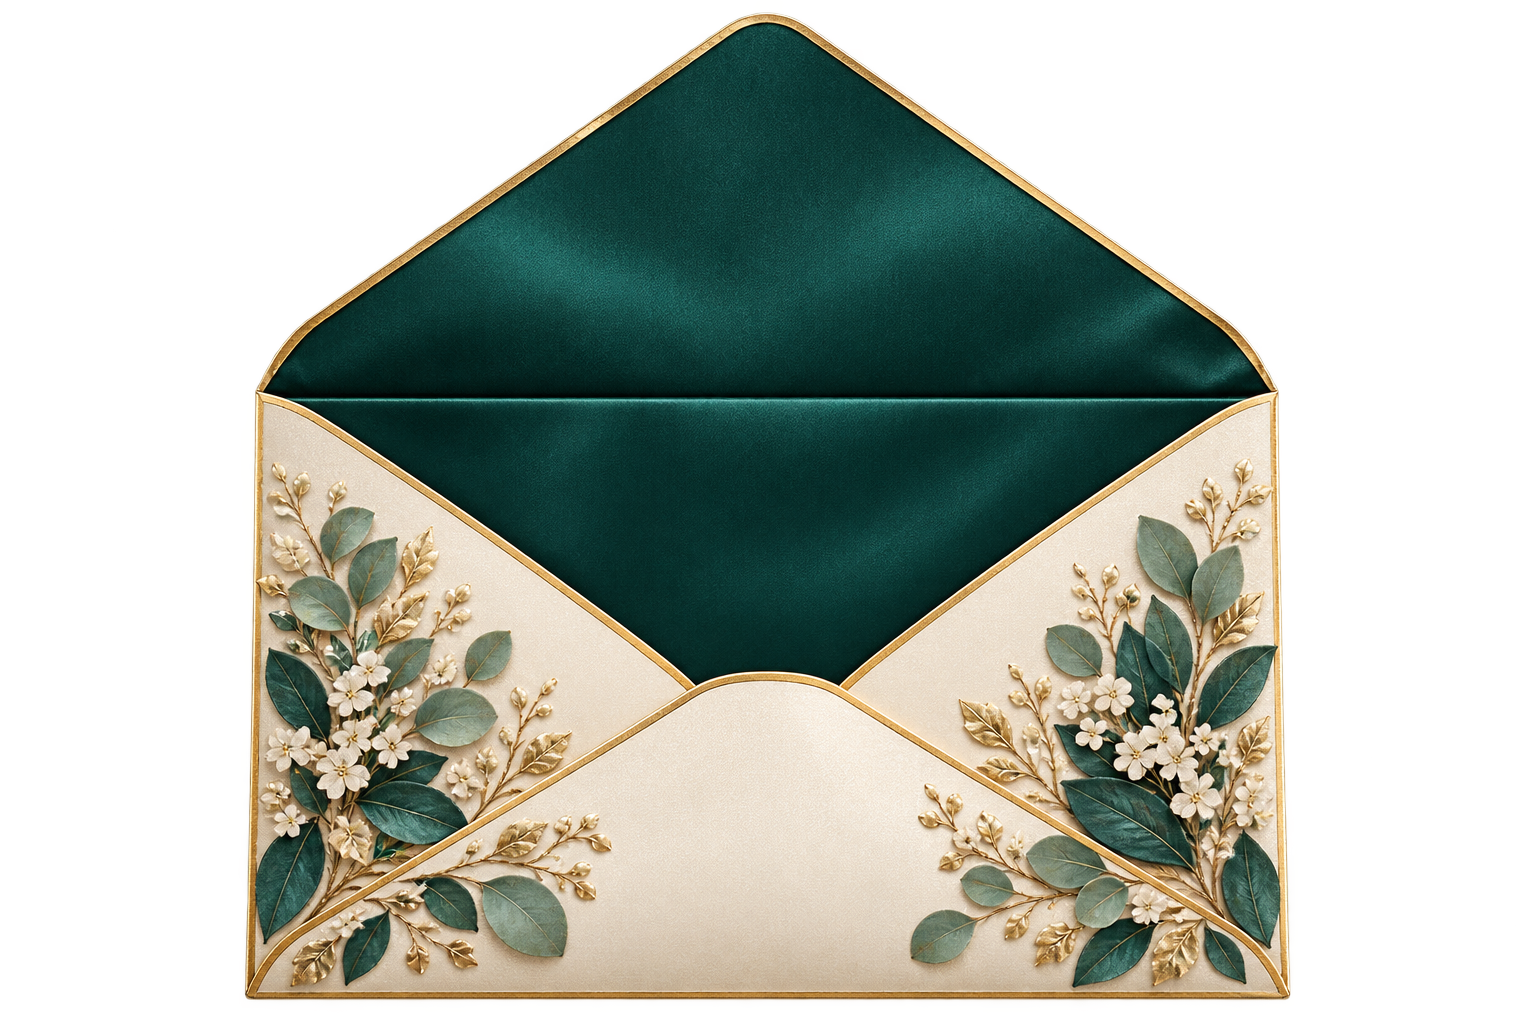
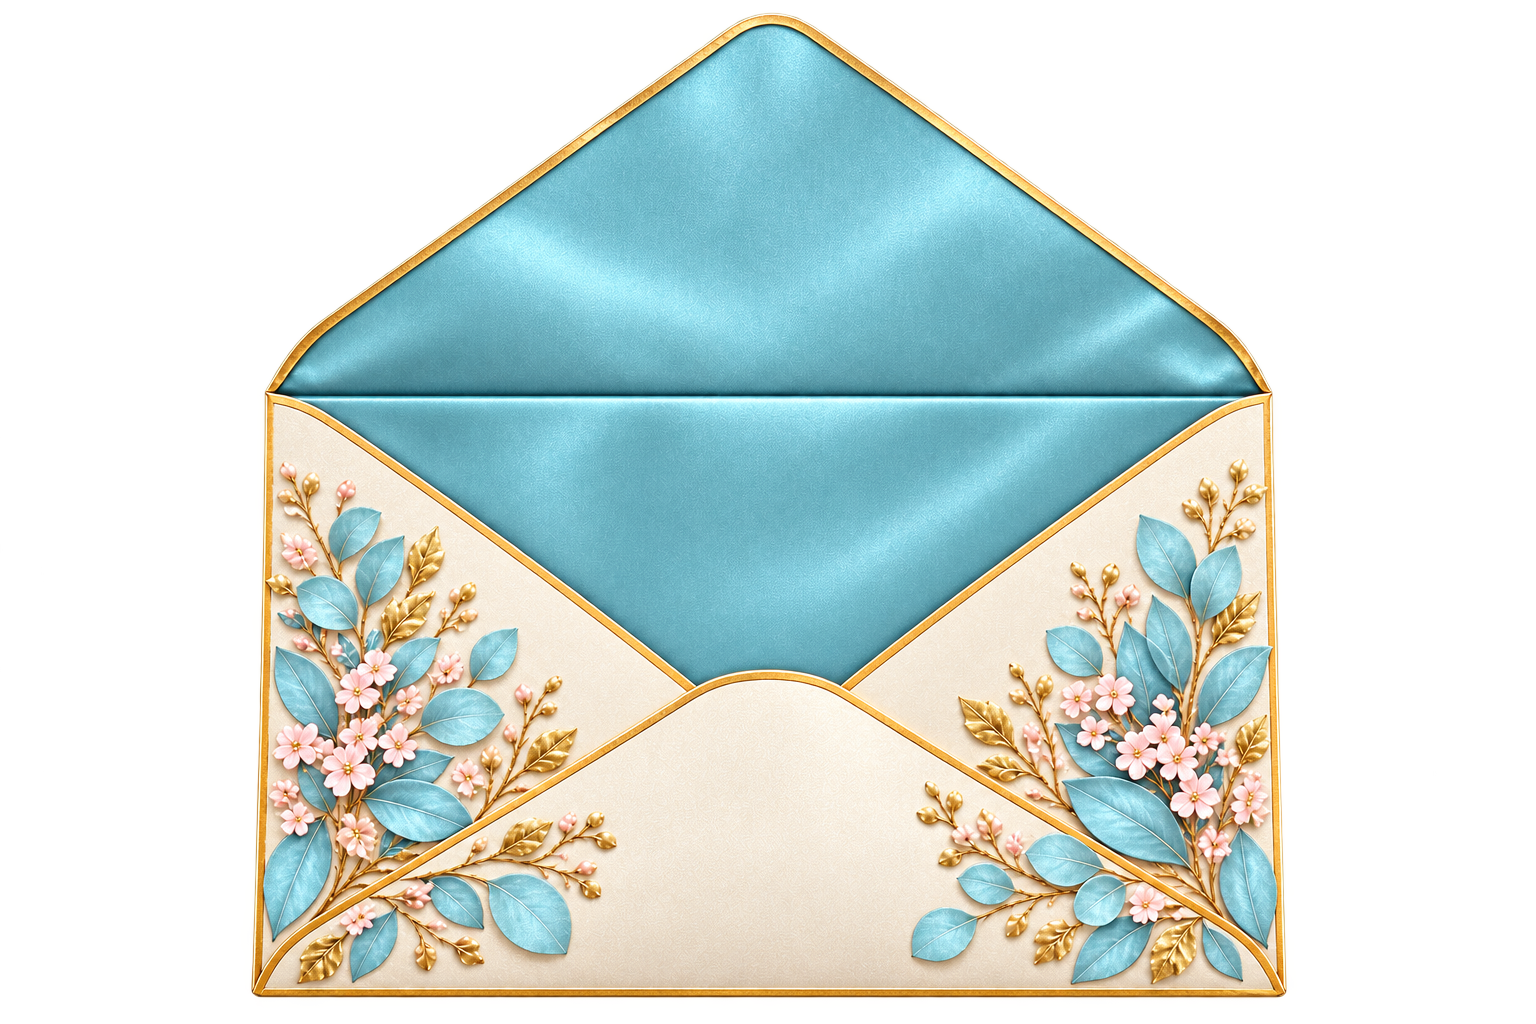
feat: actualiza invitación de Krystel a paleta aqua rosa y dorado

diff --git a/components/events/krystel-xv/KrystelInvitation.js b/components/events/krystel-xv/KrystelInvitation.js
@@ -11,9 +11,9 @@ const floral = "/images/events/krystel-xv/floral.png";
 const envelopeClosed = "/images/events/krystel-xv/envelope-closed.png";
 const envelopeOpen = "/images/events/krystel-xv/envelope-open.png";
 const theme = {
-  "--coral": "#b59045", "--peach": "#d7c28c", "--olive": "#1f625d", "--dark": "#123b39",
-  "--gold": "#b59045", "--gold-soft": "#dfc98d", "--paper": "#fffdf7", "--ivory": "#edf3ee",
-  "--charcoal": "#263b38", "--muted": "#61746f", "--accent-light": "#f0dda8", "--floral-image": `url('${floral}')`,
+  "--coral": "#dfa9b8", "--peach": "#f3cad7", "--olive": "#78b8ca", "--dark": "#3f7180",
+  "--gold": "#b59045", "--gold-soft": "#dfc98d", "--paper": "#fffdf9", "--ivory": "#eef8fa",
+  "--charcoal": "#40545a", "--muted": "#71878d", "--accent-light": "#f6dce3", "--floral-image": `url('${floral}')`,
 };
 
 function getCountdown(date) {
@@ -81,7 +81,7 @@ export function KrystelInvitation({ event }) {
       <section className={styles.location} data-je-reveal><div className={styles.locationImage}><Image src={event.ceremony.image} fill sizes="(max-width:800px) 100vw,55vw" alt="Decoración de la celebración" /></div><article><Church /><span>Misa</span><h2>{event.ceremony.name}</h2><strong>{event.ceremony.time}</strong><p>{event.ceremony.address}</p><a href={event.ceremony.mapsUrl} target="_blank" rel="noreferrer">Ver ubicación <ExternalLink /></a></article></section>
       <section className={`${styles.location} ${styles.locationReverse}`} data-je-reveal><div className={styles.locationImage}><Image src={event.reception.image} fill sizes="(max-width:800px) 100vw,55vw" alt="Jardín para la recepción" /></div><article><Sparkles /><span>Recepción</span><h2>{event.reception.name}</h2><strong>{event.reception.time}</strong><p>{event.reception.address}</p><a href={event.reception.mapsUrl} target="_blank" rel="noreferrer">Cómo llegar <MapPin /></a></article></section>
       <section className={`${styles.timeline} ${localStyles.timeline}`} data-je-reveal><span>27 de diciembre</span><h2>Una noche inolvidable</h2><div><article><time>5:00</time><small>p. m.</small><i /><h3>Ceremonia</h3><p>Santa María Magdalena</p></article><article><time>6:30</time><small>p. m.</small><i /><h3>Cena</h3><p>Hasta las 8:30 p. m.</p></article><article><time>9:00</time><small>p. m.</small><i /><h3>Baile</h3><p>Hasta las 2:00 a. m.</p></article></div></section>
-      <section className={styles.dress} data-je-reveal><span>Colores reservados</span><h2>Verde sage y dorado</h2><p>Estos colores están reservados para la quinceañera y los detalles especiales de su celebración. Gracias por elegir otros tonos para tu vestimenta.</p></section>
+      <section className={styles.dress} data-je-reveal><span>Colores reservados</span><h2>Aqua, rosa pastel y dorado</h2><p>Estos colores están reservados para la quinceañera y los detalles especiales de su celebración. Gracias por elegir otros tonos para tu vestimenta.</p></section>
       <section className={styles.gifts} data-je-reveal><Gift /><span>Un detalle especial</span><h2>Tu presencia es mi mejor regalo</h2><p>Si además deseas tener un detalle conmigo, puedes obsequiar un regalo o un sobre. Lo recibiré con mucho cariño, sin que sea una obligación.</p></section>
       <section className={styles.calendar} data-je-reveal><CalendarDays /><span>Reserva la fecha</span><h2>27 de diciembre de 2026</h2><button onClick={addCalendar}>Agregar a mi calendario</button></section>
       <section className={styles.rsvp} data-je-reveal><div className={styles.rsvpIntro}><span>R S V P</span><h2>¿Me acompañas?</h2><p>Por favor confirma tu asistencia antes del 20 de diciembre.</p><a href={event.contact.whatsapp} target="_blank" rel="noreferrer">Dudas por WhatsApp: {event.contact.phone}</a><div>K</div></div>{success ? <div className={styles.success}><Check /><h3>¡Gracias, {success}!</h3><p>Recibí tu respuesta. Me dará mucha alegría compartir esta noche contigo.</p><button onClick={() => setSuccess("")}>Editar respuesta</button></div> : <form onSubmit={submit}><label>Nombre completo<input name="name" required placeholder="Escribe tu nombre" /></label><fieldset><legend>¿Asistirás?</legend><label><input type="radio" name="attendance" value="yes" required /> Sí, ahí estaré</label><label><input type="radio" name="attendance" value="no" required /> No podré asistir</label></fieldset><label>Número de acompañantes adultos<input name="companions" type="number" min="0" max={event.maxCompanions} defaultValue="0" /></label><label>Comentarios o consideraciones<textarea name="notes" rows="3" placeholder="Alergias o algo que debamos saber" /></label><label>Mensaje para Krystel<textarea name="message" rows="4" placeholder="Déjame unas palabras…" /></label><label className={styles.honeypot}>Sitio web<input name="website" tabIndex="-1" autoComplete="off" /></label>{error && <p className={styles.formError}>{error}</p>}<button disabled={saving}>{saving ? "Enviando…" : "Confirmar asistencia"}</button></form>}</section>

diff --git a/config/events/krystel-xv.js b/config/events/krystel-xv.js
@@ -1,6 +1,6 @@
 export const krystelXv = {
   slug: "xv-krystel",
-  templateKey: "krystel-xv-teal-gold",
+  templateKey: "krystel-xv-aqua-pink-gold",
   eventTitle: "XV años de Krystel",
   couple: { partner1: "Krystel", partner2: "Mis XV" },
   date: "2026-12-27T17:00:00-06:00",
@@ -35,10 +35,10 @@ export const krystelXv = {
     { time: "21:00", title: "Baile", description: "Auditorio Municipal", icon: "music" },
   ],
   family: { parents: ["Luis Carlos Hernández P.", "Élida Bustillos S."], godparents: [] },
-  dressCode: { title: "Verde sage y dorado reservados", text: "Agradecemos elegir otros tonos para tu vestimenta." },
+  dressCode: { title: "Aqua, rosa pastel y dorado reservados", text: "Agradecemos elegir otros tonos para tu vestimenta." },
   gifts: [{ name: "Regalo o sobre", description: "Tu presencia es mi mejor regalo. Si deseas tener un detalle conmigo, puedes elegir un regalo o un sobre.", url: "", type: "cash" }],
   gallery: [],
   contact: { phone: "6491180778", whatsapp: "https://wa.me/526491180778" },
   music: { enabled: true, url: "/audio/margarita-mateo-perfect-espanol.mp3", label: "Perfect · Ed Sheeran" },
-  theme: { primary: "#1f625d", dark: "#123b39", champagne: "#b59045", cream: "#edf3ee", ivory: "#fffdf7", rose: "#d7c28c", sage: "#8fa99d" },
+  theme: { primary: "#78b8ca", dark: "#3f7180", champagne: "#b59045", cream: "#eef8fa", ivory: "#fffdf9", rose: "#f3cad7", sage: "#9ed1dd" },
 };

diff --git a/app/eventos/page.js b/app/eventos/page.js
@@ -18,7 +18,7 @@ export default function EventsPage() {
       <Link href="/eventos/xv-krystel" className={styles.card}>
         <Image src="/images/events/krystel-xv/hero.png" fill sizes="(max-width: 800px) 100vw, 50vw" alt="Invitación de XV años de Krystel" />
         <div className={styles.overlay} />
-        <div className={styles.copy}><small>Invitación personalizada</small><h2>Krystel · XV</h2><p>Verde azulado · Sage · Dorado</p><strong>Ver invitación <span>→</span></strong></div>
+        <div className={styles.copy}><small>Invitación personalizada</small><h2>Krystel · XV</h2><p>Aqua · Rosa pastel · Dorado</p><strong>Ver invitación <span>→</span></strong></div>
       </Link>
       <Link href="/eventos/margarita-y-mateo" className={styles.card}>
         <Image src="/images/events/margarita-mateo/foto-1.webp" fill sizes="(max-width: 800px) 100vw, 50vw" alt="Invitación de boda de Margarita y Mateo" />
